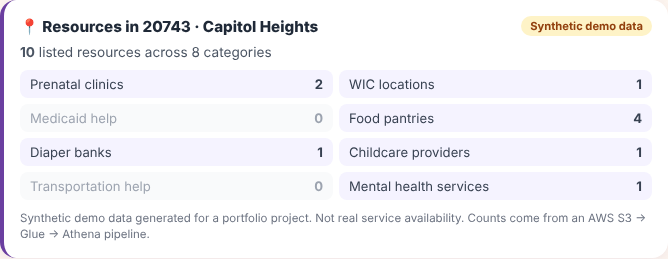
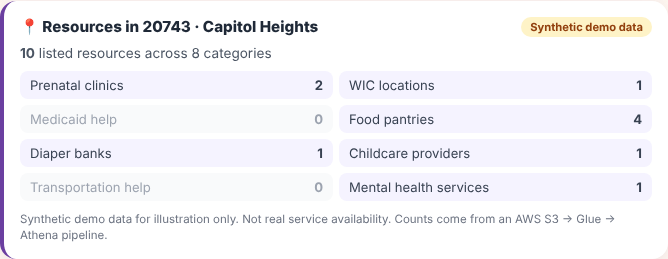
Polish documentation for publication

diff --git a/app-integration/zip_summary.js b/app-integration/zip_summary.js
@@ -1,7 +1,7 @@
 // Generated by scripts/export_app_data.py. SYNTHETIC DATA.
 window.MAMACARE_ZIP_SUMMARY = {
  "synthetic": true,
- "notice": "Synthetic demo data generated for a portfolio project. Not real service availability.",
+ "notice": "Synthetic demo data for illustration only. Not real service availability.",
  "source": "Amazon Athena query sql/02_zip_summary.sql, captured 2026-11-09T02:08:00+00:00",
  "type_labels": {
   "prenatal_clinics": "Prenatal clinics",

diff --git a/scripts/export_app_data.py b/scripts/export_app_data.py
@@ -33,7 +33,7 @@ def build():
         }
     return {
         "synthetic": True,
-        "notice": "Synthetic demo data generated for a portfolio project. Not real service availability.",
+        "notice": "Synthetic demo data for illustration only. Not real service availability.",
         "source": f"Amazon Athena query sql/02_zip_summary.sql, captured {ev['captured_at_utc']}",
         "type_labels": TYPE_LABELS,
         "zips": zips,

diff --git a/README.md b/README.md
@@ -55,7 +55,7 @@ The app is a static HTML/JavaScript site that already asks for the user's ZIP co
 
 ![ZIP coverage card rendered in the app](docs/screenshots/zip-coverage-card.png)
 
-Integration is 6 added lines in the app (nothing removed): two `<script>` tags, one `<div id="zipCoverage">`, and one call, `MamaCareZipCoverage.render(userData.zip)`, at the end of `showDashboard()`. It was tested by loading the team's page in headless Chrome: no JavaScript errors, and the card's numbers matched the Athena output. **The team's app code is not published in this repo;** the change will be proposed to the team separately.
+Integration is 6 added lines in the app (nothing removed): two `<script>` tags, one `<div id="zipCoverage">`, and one call, `MamaCareZipCoverage.render(userData.zip)`, at the end of `showDashboard()`. It was tested by loading the team's page in headless Chrome: no JavaScript errors, and the card's numbers matched the Athena output. **The team's app code is not published in this repo;** the integration lives in the [MamaCare PG app repository](https://github.com/Torhira-Aminu/MamabridgePG).
 
 How it behaves:
 - Every card carries a "Synthetic demo data" label and a notice.
@@ -95,14 +95,14 @@ python scripts/run_local.py
 python -m pytest -v
 node --test app-integration/zip-coverage.test.js
 python scripts/export_app_data.py
-aws cloudformation deploy --template-file infra/template.yaml --stack-name mamacare-pg --region us-east-1 --profile portfolio
-aws s3 sync data s3://mamacare-pg-data-<ACCOUNT_ID>/ --exclude "expected/*" --profile portfolio
+aws cloudformation deploy --template-file infra/template.yaml --stack-name mamacare-pg --region us-east-1 --profile <your-profile>
+aws s3 sync data s3://mamacare-pg-data-<ACCOUNT_ID>/ --exclude "expected/*" --profile <your-profile>
 ```
 
 Then in the Athena console choose workgroup **mamacare-pg-wg**, database **mamacare_pg_synthetic**, and run any file in `sql/`.
 
-Tear down: `aws s3 rm s3://mamacare-pg-data-<ACCOUNT_ID> --recursive --profile portfolio`, then `aws cloudformation delete-stack --stack-name mamacare-pg --profile portfolio`.
+Tear down: `aws s3 rm s3://mamacare-pg-data-<ACCOUNT_ID> --recursive --profile <your-profile>`, then `aws cloudformation delete-stack --stack-name mamacare-pg --profile <your-profile>`.
 
 ## Credits
 
-**MamaCare PG** web application (HTML/CSS/JavaScript) was built by the MamaCare PG team. This repository is **Torhira Aminu's individual extension**: the synthetic datasets, AWS data pipeline, queries, tests and documentation. It does not modify the team's application code. Built with assistance from Claude.
+**MamaCare PG** web application (HTML/CSS/JavaScript) was built by the MamaCare PG team. This repository is **Torhira Aminu's individual extension**: the synthetic datasets, AWS data pipeline, queries, tests and documentation. It does not modify the team's application code.
